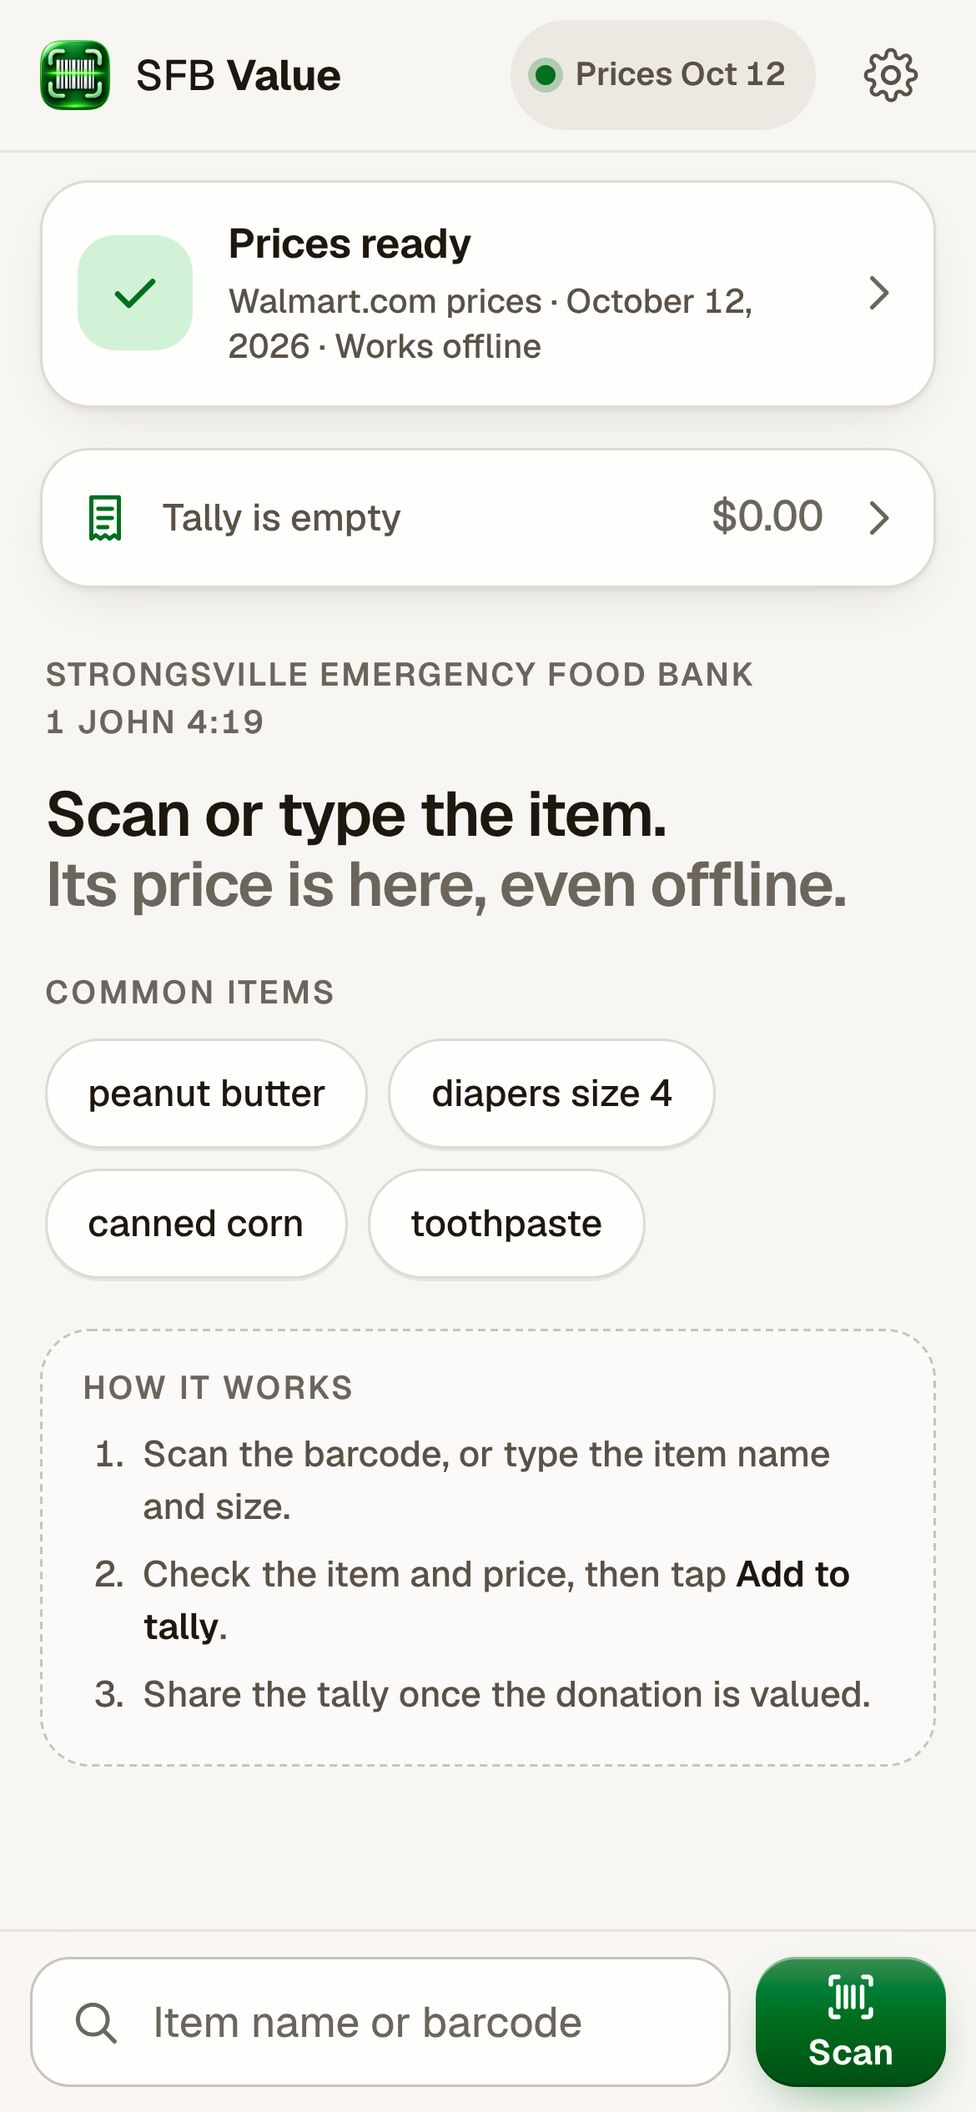
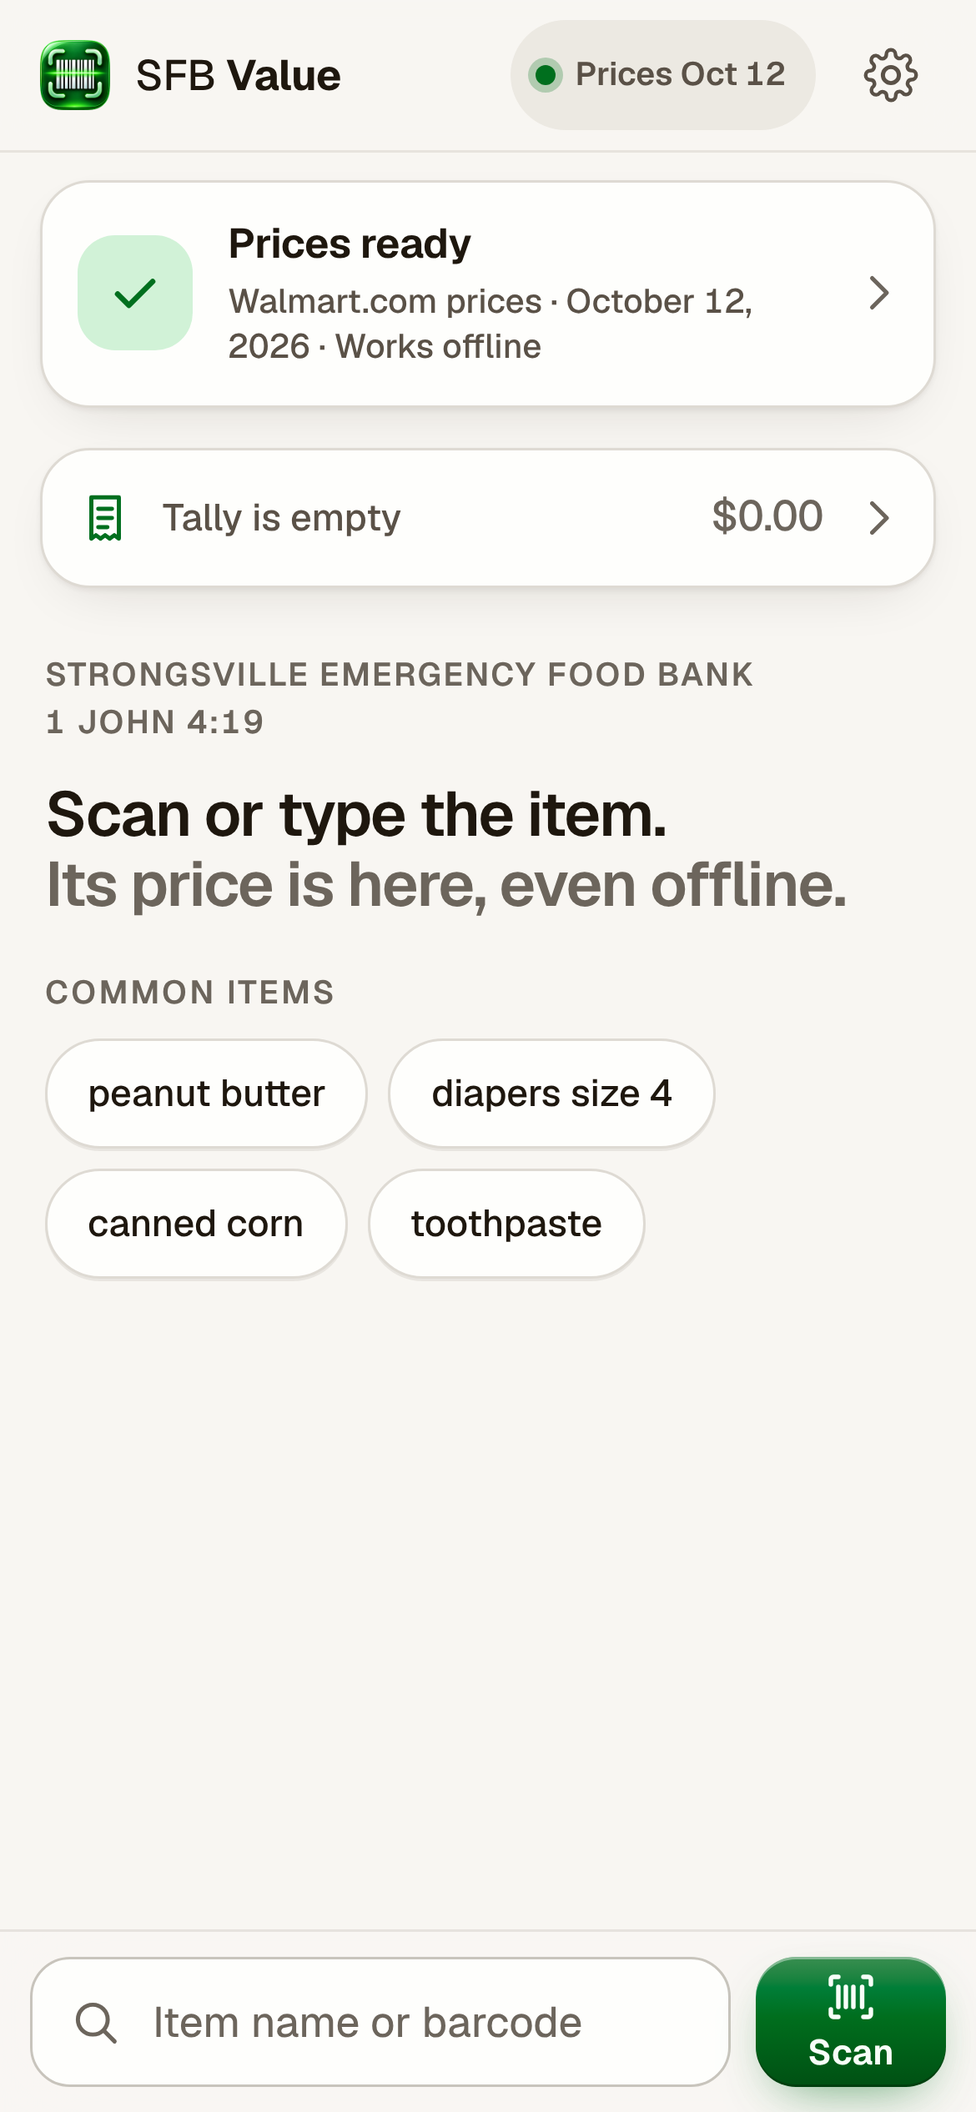
app: one-time first-launch walkthrough replaces the How it works card
Four coach marks over the real screen: a spotlight on the dock (scan or
type), an illustrated Add to tally step, the tally strip (review and share)
and the status card (prices stay on the phone), one sentence or two each,
with Next, Back, Skip and a tap anywhere to move on. Shown once per phone,
replayable from Settings > How to use; ?tour=1 forces it and ?tour=0 skips
it (scroll-check and measure pass tour=0; shots keeps it as the first
picture and audits it). The home screen now fits one phone screen.

Claude-Session: https://claude.ai/code/session_01XgfKgQNjHJmxSNKm1G3Yfj

diff --git a/app/public/js/app.js b/app/public/js/app.js
@@ -9,7 +9,7 @@ import { stalenessLevel, stalenessText, daysSince } from "./staleness.js";
 
 // ------------------------------------------------------------------ setup
 const $ = (id) => document.getElementById(id);
-const el = Object.fromEntries(["top", "main", "dock", "status", "statusText", "tallyBtn", "tallyCount", "tallyTotal", "settingsBtn", "progress", "progressBar", "stale", "home", "results", "list", "resultsMeta", "recent", "recentList", "q", "clearBtn", "scanBtn", "searchForm", "sheet", "tallySheet", "settings", "scanner", "video", "overlay", "scanClose", "torchBtn", "reticle", "scanHint", "scanTypeForm", "scanTypeInput", "scanTypeBtn", "toasts", "quick", "heroEyebrow", "readyCard", "statusLive", "tallyStrip", "tallyStripText", "tallyStripTotal"].map((k) => [k, $(k)]));
+const el = Object.fromEntries(["top", "main", "dock", "status", "statusText", "tallyBtn", "tallyCount", "tallyTotal", "settingsBtn", "progress", "progressBar", "stale", "home", "results", "list", "resultsMeta", "recent", "recentList", "q", "clearBtn", "scanBtn", "searchForm", "sheet", "tallySheet", "settings", "scanner", "video", "overlay", "scanClose", "torchBtn", "reticle", "scanHint", "scanTypeForm", "scanTypeInput", "scanTypeBtn", "toasts", "quick", "heroEyebrow", "readyCard", "statusLive", "tallyStrip", "tallyStripText", "tallyStripTotal", "tour", "tourSpot", "tourCard"].map((k) => [k, $(k)]));
 
 const LIVE_URL = (document.querySelector('meta[name="sfb-live-check"]')?.content || "").trim().replace(/\/$/, "");
 const BUILD = document.querySelector('meta[name="sfb-build"]')?.content || "dev";
@@ -26,7 +26,7 @@ const state = {
   query: "", seq: 0, last: null, codeHit: null, pending: null, sheetRes: null, qty: 1,
   scan: null, scanOpen: false, scanGen: 0, scanPausedByVisibility: false, engine: "", source: null, pendingReload: false,
   openScannerAfterSheet: false, closeScannerAfterSheet: false, focusSearchAfterSheet: false,
-  stale: "fresh", staleBusy: false, persisted: undefined,
+  stale: "fresh", staleBusy: false, persisted: undefined, tourOpen: false,
 };
 
 const db = new DbClient();
@@ -47,7 +47,7 @@ const icon = (name, cls = "ico") => `<svg class="${cls}" aria-hidden="true"><use
 const haptic = (ms = 12) => { if (prefs.haptics && navigator.vibrate) { try { navigator.vibrate(ms); } catch { /* ignore */ } } };
 const priceDate = () => db.manifest?.priceDate || db.manifest?.published?.slice(0, 10) || "";
 const storeLabel = () => db.manifest?.store?.label || "Strongsville Walmart";
-const anyModalOpen = () => el.sheet.open || el.tallySheet.open || el.settings.open;
+const anyModalOpen = () => el.sheet.open || el.tallySheet.open || el.settings.open || state.tourOpen;
 
 function highlight(text, toks) {
   const t = String(text ?? "");
@@ -150,6 +150,7 @@ window.addEventListener("popstate", () => {
   const top = history.state?.modal;
   const openDlg = [el.sheet, el.tallySheet, el.settings].find((d) => d.open && !d._closeTimer);
   if (openDlg && top !== openDlg.id) { modals.close(openDlg, { fromPop: true }); return; }
+  if (state.tourOpen && top !== "tour") { closeTour({ fromPop: true }); return; }
   if (state.scanOpen && top !== "scanner") closeScanner({ fromPop: true });
 });
 // a reload keeps the previous entry's state: never start with a stale "a modal is open" marker
@@ -793,7 +794,6 @@ function pruneRecent() {
 }
 function renderRecent() {
   el.recent.hidden = recent.length === 0;
-  const how = $("howtoCard"); if (how) how.hidden = recent.length > 0;   // the first-launch steps give way to Recent
   el.recentList.innerHTML = recent.slice(0, 4).map((r, i) => `<li><button class="row" type="button" data-recent="${i}"><span class="name">${esc(r.title)}</span><span class="price">${money(r.priceCents)}${r.unit === "lb" ? "<small>per lb</small>" : ""}</span><span class="meta"><span class="tag">${esc(kindLabel({ kind: r.kind }))}</span></span></button></li>`).join("");
 }
 el.recentList.addEventListener("click", async (e) => {
@@ -847,6 +847,7 @@ function settingsHtml() {
       <li>Check the item and price, then tap <b>Add to tally</b>.</li>
       <li>Share the tally once the donation is valued.</li>
     </ol>
+    <button class="btn btn--ghost btn--block" type="button" data-act="tour">${icon("info")} Show the walkthrough</button>
     <details class="about">
       <summary><span>About</span>${icon("back", "ico chev")}</summary>
       <ul class="legend-list" aria-label="What the labels mean">${legend}</ul>
@@ -872,16 +873,100 @@ el.settings.addEventListener("click", async (e) => {
   if (sw) { const k = sw.dataset.pref; prefs[k] = !prefs[k]; writeJson(PREFS_KEY, prefs); sw.setAttribute("aria-checked", String(prefs[k])); haptic(5); return; }
   const actBtn = e.target.closest("[data-act]"), act = actBtn?.dataset.act;
   if (act === "update") await checkNow(actBtn);
+  else if (act === "tour") { el.settings.addEventListener("closed", () => openTour(), { once: true }); modals.close(el.settings); }
   else if (act === "reset") {
     if (!confirm("Remove the downloaded prices, tally and recent items from this phone? Prices download again when online.")) return;
     await db.reset(); tally = []; recent = [];
-    for (const k of [TALLY_KEY, RECENT_KEY, PREFS_KEY]) { try { localStorage.removeItem(k); } catch { /* ignore */ } }
+    for (const k of [TALLY_KEY, RECENT_KEY, PREFS_KEY, TOUR_KEY]) { try { localStorage.removeItem(k); } catch { /* ignore */ } }
     location.reload();   // the app shell stays cached, so this works offline too
   }
 });
 el.settingsBtn.addEventListener("click", openSettings);
 el.status.addEventListener("click", openSettings);
 el.readyCard?.addEventListener("click", openSettings);
+
+// ------------------------------------------------------------------ walkthrough (first launch, and Settings › Show the walkthrough)
+// Four coach marks over the real screen, one sentence or two each: find the item, add it, review and share the tally,
+// prices stay on the phone. Shown once per phone (TOUR_KEY); ?tour=1 forces it, ?tour=0 skips it (the measuring tools).
+const TOUR_KEY = "sfb.tour";
+const TOUR_STEPS = [
+  { target: () => el.dock, place: "above", title: "Find the item", text: "Tap <b>Scan</b> and point the camera at the barcode, or type the item name and size." },
+  { demo: true, title: "Add it to the tally", text: "Check the item and its price, then tap <b>Add to tally</b>. Set the quantity there when there are several." },
+  { target: () => el.tallyStrip, place: "below", title: "Review and share", text: "Every item added builds the tally. Open it to check the lines, then tap <b>Share</b> to send the total." },
+  { target: () => el.readyCard, place: "below", title: "Prices stay on this phone", text: "The app works without a signal. This card shows the date of the prices; they refresh on their own when online." },
+];
+const tour = { step: 0, returnTo: null };
+const tourParam = new URLSearchParams(location.search).get("tour");
+const tourWanted = () => tourParam === "1" || (tourParam !== "0" && !readJson(TOUR_KEY, null)?.done);
+function openTour() {
+  if (state.tourOpen || state.scanOpen || anyModalOpen()) return;
+  state.tourOpen = true; tour.step = 0; tour.returnTo = document.activeElement;
+  if (!el.home.hidden) window.scrollTo(0, 0);
+  setBackgroundInert(true);
+  el.tour.hidden = false;
+  history.pushState({ modal: "tour", n: (history.state?.n || 0) + 1 }, "");
+  renderTour();
+}
+function closeTour({ fromPop = false } = {}) {
+  if (!state.tourOpen) return;
+  if (!fromPop && history.state?.modal === "tour") { history.back(); return; }   // popstate finishes the close
+  state.tourOpen = false;
+  writeJson(TOUR_KEY, { done: Date.now() });
+  el.tour.hidden = true; el.tourCard.innerHTML = ""; el.tourSpot.hidden = true;
+  setBackgroundInert(false);
+  tour.returnTo?.focus?.({ preventScroll: true }); tour.returnTo = null;
+}
+function renderTour() {
+  const s = TOUR_STEPS[tour.step], n = TOUR_STEPS.length, last = tour.step === n - 1;
+  const dots = TOUR_STEPS.map((_, i) => `<i${i === tour.step ? ' class="is-on"' : ""}></i>`).join("");
+  const demo = s.demo ? `<div class="tour-demo" aria-hidden="true"><div class="td-row"><span class="td-name">Item and size</span><span class="td-price">Price</span></div><span class="td-btn">${icon("plus")} Add to tally</span></div>` : "";
+  el.tourCard.innerHTML = `<p class="tour-step">Step ${tour.step + 1} of ${n}</p>
+    <h2 class="tour-title" id="tourTitle">${s.title}</h2>
+    <p class="tour-text" id="tourText">${s.text}</p>${demo}
+    <div class="tour-nav"><button class="btn btn--ghost" type="button" data-tour="skip">${last ? "Close" : "Skip"}</button><span class="tour-dots" aria-hidden="true">${dots}</span>
+      ${tour.step ? `<button class="btn btn--ghost" type="button" data-tour="back" aria-label="Back">${icon("back")}</button>` : ""}
+      <button class="btn btn--accent" type="button" data-tour="next">${last ? "Start" : "Next"}</button></div>`;
+  placeTour();
+  el.tourCard.querySelector("[data-tour=next]").focus({ preventScroll: true });
+}
+/** The spotlight sits on the step's element (if it is on screen) and the card sits on the free side of it. */
+function placeTour() {
+  if (!state.tourOpen) return;
+  const s = TOUR_STEPS[tour.step], t = s.target?.();
+  const r = t && !t.hidden && t.getClientRects().length ? t.getBoundingClientRect() : null;   // fixed elements have no offsetParent
+  const card = el.tourCard, spot = el.tourSpot, vh = vv?.height || window.innerHeight, vt = vv?.offsetTop || 0;
+  el.tour.classList.toggle("is-free", !r);
+  card.style.top = card.style.bottom = "";
+  card.classList.toggle("is-placed", !!(r && r.width));
+  if (!r || r.width === 0) { spot.hidden = true; return; }
+  const pad = 6;
+  spot.hidden = false;
+  spot.style.cssText = `left:${r.left - pad}px;top:${r.top - pad}px;width:${r.width + 2 * pad}px;height:${r.height + 2 * pad}px`;
+  if (s.place === "above") card.style.bottom = `${Math.max(0, vt + vh - r.top + pad + 10)}px`;
+  else card.style.top = `${r.bottom + pad + 10}px`;
+}
+el.tourCard.addEventListener("click", (e) => {
+  const act = e.target.closest("[data-tour]")?.dataset.tour; if (!act) return;
+  if (act === "skip") closeTour();
+  else if (act === "back") { tour.step = Math.max(0, tour.step - 1); renderTour(); }
+  else if (act === "next") { if (tour.step >= TOUR_STEPS.length - 1) closeTour(); else { tour.step++; renderTour(); } }
+});
+// a tap outside the card (on the dimmed screen or the spotlight) moves on; Escape closes
+el.tour.addEventListener("click", (e) => { if (e.target === el.tour || e.target === el.tourSpot) el.tourCard.querySelector("[data-tour=next]")?.click(); });
+el.tour.addEventListener("keydown", (e) => {
+  if (e.key === "Escape") { e.preventDefault(); closeTour(); return; }
+  if (e.key === "Tab") {   // the focus stays inside the card
+    const f = [...el.tourCard.querySelectorAll("button")]; if (!f.length) return;
+    const first = f[0], lastB = f[f.length - 1];
+    if (e.shiftKey && document.activeElement === first) { e.preventDefault(); lastB.focus(); }
+    else if (!e.shiftKey && document.activeElement === lastB) { e.preventDefault(); first.focus(); }
+  }
+});
+window.addEventListener("resize", placeTour);
+vv?.addEventListener("resize", placeTour);
+vv?.addEventListener("scroll", placeTour);
+window.addEventListener("scroll", placeTour, { passive: true });
+window.__sfb.tour = { open: openTour, close: closeTour };
 
 // ------------------------------------------------------------------ scanner
 let scannerMod = null;
@@ -1030,6 +1115,7 @@ setStatus("loading", "Starting");
 renderReadyCard();
 keyboardInset();
 showInstallHint();
+if (tourWanted()) requestAnimationFrame(openTour);
 if (typeof DecompressionStream === "undefined") {
   // the price database is unpacked with DecompressionStream: Safari 16.4 (iOS 16.4, March 2023) and Chrome 80 or newer
   setStatus("error", "Update required · tap for details");

diff --git a/app/public/app.css b/app/public/app.css
@@ -642,8 +642,6 @@ html:has(dialog[open]), html:has(.scanner:not([hidden])) { overflow: hidden; }
 .howto b { color: var(--ink); font-weight: 600; }
 .eyebrow { display: flex; flex-wrap: wrap; column-gap: 14px; row-gap: 2px; }
 .eyebrow .ref { white-space: nowrap; }
-.howto-card { padding: 14px 16px 12px; border-radius: var(--r-l); border: 1px dashed var(--line-2); background: color-mix(in oklab, var(--surface) 60%, transparent); }
-.howto-card .h2 { margin-bottom: 4px; }
 .howto-card .howto { font-size: 14.5px; padding-left: 20px; }
 
 /* ---------- 2026-10-12: colour scheme ----------
@@ -707,3 +705,32 @@ html:has(dialog[open]), html:has(.scanner:not([hidden])) { overflow: hidden; }
 .search:focus-within { border-color: var(--accent); box-shadow: 0 0 0 4px color-mix(in oklab, var(--accent) 18%, transparent), var(--glow-dot); }
 .reticle .laser { background: linear-gradient(90deg, transparent, oklch(87% 0.24 148), transparent); box-shadow: 0 0 14px oklch(87% 0.24 148); }
 .scanner.is-hit .reticle i { border-color: oklch(87% 0.24 148); }
+
+/* ---- walkthrough: a spotlight on the real element and a card beside it; the rest of the screen is dimmed ---- */
+.tour { position: fixed; inset: 0; z-index: 30; --tour-dim: oklch(10% 0.01 70 / .55); }
+.tour.is-free { background: var(--tour-dim); }
+.tour-spot { position: fixed; border-radius: 22px; box-shadow: 0 0 0 200vmax var(--tour-dim), 0 0 0 3px var(--accent), 0 0 22px color-mix(in oklab, var(--accent) 55%, transparent); pointer-events: none; transition: top .25s, left .25s, width .25s, height .25s; }
+@media (prefers-color-scheme: dark) { :root:not([data-theme="light"]) .tour { --tour-dim: oklch(0% 0 0 / .66); } }
+:root[data-theme="dark"] .tour { --tour-dim: oklch(0% 0 0 / .66); }
+.tour-card { position: fixed; left: 16px; right: 16px; top: 50%; translate: 0 -50%; max-width: 440px; margin-inline: auto; padding: 16px 18px 14px; border-radius: var(--r-l);
+  background: var(--surface); color: var(--ink); box-shadow: var(--shadow-lg), 0 12px 40px -12px oklch(0% 0 0 / .5); animation: rise .22s ease-out; }
+.tour-card.is-placed { translate: none; top: auto; }
+.tour-step { margin: 0 0 4px; font-size: 13px; letter-spacing: .08em; text-transform: uppercase; color: var(--ink-3); font-weight: 600; }
+.tour-title { margin: 0; font-size: 20px; font-weight: 650; letter-spacing: -0.015em; line-height: 1.2; }
+.tour-text { margin: 6px 0 0; font-size: 15.5px; line-height: 1.45; color: var(--ink-2); }
+.tour-text b { color: var(--ink); font-weight: 600; }
+.tour-demo { margin-top: 12px; padding: 10px 12px; border-radius: var(--r-m); border: 1px solid var(--line); background: var(--bg); display: grid; gap: 10px; }
+.td-row { display: flex; justify-content: space-between; gap: 12px; font-size: 15px; }
+.td-name { font-weight: 600; } .td-price { color: var(--ink-3); font-variant-numeric: tabular-nums; }
+.td-btn { display: inline-flex; align-items: center; gap: 6px; justify-self: start; min-height: 36px; padding: 0 14px; border-radius: 10px; background: var(--accent); color: var(--accent-ink); font-size: 14px; font-weight: 600; }
+.td-btn .ico { width: 16px; height: 16px; }
+.tour-nav { display: flex; align-items: center; gap: 8px; margin-top: 14px; }
+.tour-nav .btn { min-height: 44px; padding: 0 16px; }
+.tour-nav .btn--ghost { border-color: transparent; padding-left: 10px; }
+.tour-nav [data-tour="back"] { width: 44px; padding: 0; } .tour-nav [data-tour="back"] .ico { width: 20px; height: 20px; }
+.tour-nav [data-tour="next"] { margin-left: auto; min-width: 88px; }
+.tour-nav [data-tour="back"] + [data-tour="next"] { margin-left: 0; }
+.tour-dots { display: flex; gap: 6px; margin-left: auto; margin-right: 4px; }
+.tour-dots i { width: 7px; height: 7px; border-radius: 50%; background: var(--line-2); }
+.tour-dots i.is-on { background: var(--accent); width: 18px; border-radius: 4px; }
+@media (prefers-reduced-motion: reduce) { .tour-card { animation: none; } .tour-spot { transition: none; } }

diff --git a/app/public/index.html b/app/public/index.html
@@ -100,14 +100,6 @@
         </div>
         <div class="note install" id="installHint" hidden></div>
       </div>
-      <section class="howto-card" id="howtoCard" aria-labelledby="howtoH">
-        <h2 class="h2" id="howtoH">How it works</h2>
-        <ol class="howto">
-          <li>Scan the barcode, or type the item name and size.</li>
-          <li>Check the item and price, then tap <b>Add to tally</b>.</li>
-          <li>Share the tally once the donation is valued.</li>
-        </ol>
-      </section>
       <section class="recent" id="recent" hidden aria-labelledby="recentH">
         <h2 class="h2" id="recentH">Recent</h2>
         <ol class="list list--compact" id="recentList"></ol>
@@ -125,6 +117,10 @@
   <dialog id="tallySheet" class="sheet" aria-labelledby="tallyTitle"></dialog>
   <dialog id="settings" class="panel" aria-labelledby="settingsTitle"></dialog>
 
+  <div id="tour" class="tour" hidden>
+    <div class="tour-spot" id="tourSpot" hidden></div>
+    <section class="tour-card" id="tourCard" role="dialog" aria-modal="true" aria-labelledby="tourTitle" aria-describedby="tourText"></section>
+  </div>
   <div id="scanner" class="scanner" hidden role="dialog" aria-modal="true" aria-label="Barcode scanner">
     <video id="video" class="video" playsinline muted autoplay></video>
     <canvas id="overlay" class="overlay" aria-hidden="true"></canvas>

diff --git a/docs/DECISIONS.md b/docs/DECISIONS.md
@@ -76,6 +76,7 @@ Dated, current decisions; this file wins on conflict. A later entry that replace
 - 2026-10-12 — Sample prices never mix with real ones: tally lines and recents made on the fixture are marked and dropped, with one toast, the first time a real snapshot opens.
 - 2026-10-12 — Memory budget for the pack on the phone. The search worker holds every open shard in memory (131 bytes per item measured; the finished crawl is about 7.8M raw listings, so a full pack would be killed by the phone's memory limit, Safari's in particular). The app always opens the consumable (core) shards and adds durable shards in manifest order only while the estimate stays under a per-device budget (~100 MB per GB of `navigator.deviceMemory`, 250–640 MB; 400 MB when unknown); shards past the budget are not downloaded, Settings names them, and their barcodes fall back to the live check. This is a safeguard, not the fix: the fix is a smaller durable tier by data rule (proposed to the owner the same day: drop or cap departments a food bank does not receive, keep every barcode for scans), decided on the finished crawl's real row count.
 - 2026-10-12 — Safari in the browser (not installed): the keyboard inset and pan (`--kb`, `--vv-top`) are read from the visual viewport only while a text field is focused. Safari also shrinks and shifts the visual viewport when its toolbars collapse, on a rubber-band scroll and after a rotation; following those moved the header down the page and lifted the dock, leaving a white band above it. `html` carries the page background so the overscroll area is never white. A rotation that leaves the page zoomed in is undone by pinning `maximum-scale=1` for one frame.
+- 2026-10-13 — First-launch walkthrough (owner): the "How it works" card is replaced by a one-time, four-step walkthrough over the real screen (a spotlight on the dock, an illustrated Add to tally step, the tally strip, the status card), one sentence or two each, with Next, Back, Skip and a tap anywhere to move on. Shown once per phone, replayable from Settings › How to use, forced or skipped with `?tour=1|0`. The home screen now fits one phone screen.
 
 ## Open
 

diff --git a/app/README.md b/app/README.md
@@ -60,7 +60,10 @@ quantity or weight stepper, and **Add to tally**. The sheet's coloured label nam
 
 Also: the home screen reads top-down and never leaves empty space above the content: a **status card** (prices ready /
 downloading / offline / a problem, one line each; tapping it opens Settings), a **tally strip** (count and total, always
-visible, opens the tally), the headline, common items, the Home Screen card and Recent. The tally (lines, total,
+visible, opens the tally), the headline, common items, the Home Screen card and Recent. On the first launch a four-step
+**walkthrough** runs over the real screen (find the item, add it to the tally, review and share, prices stay on the phone),
+one sentence or two per step with Next, Back and Skip; it is shown once per phone and can be replayed from Settings
+(`?tour=1` forces it, `?tour=0` skips it, as the measuring tools do). The tally (lines, total,
 share/copy, clear), settings (appearance, vibration, live price check; a Prices card with the date, the source and the
 size on the phone, Check for new prices; a three-step How to use; an About fold with the result-label legend, the small
 print and the build; Reset app data), scanner with torch, manual barcode entry for denied cameras and keyboard-wedge
